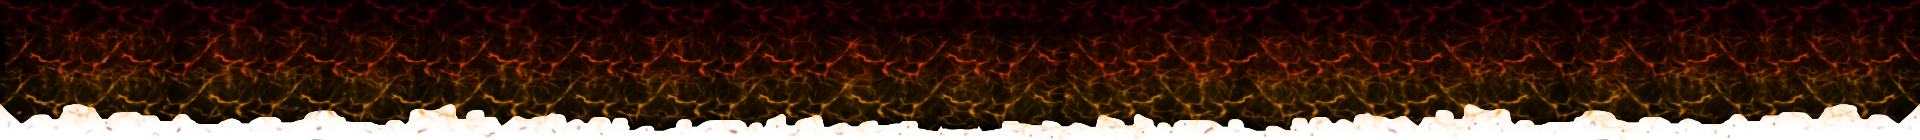
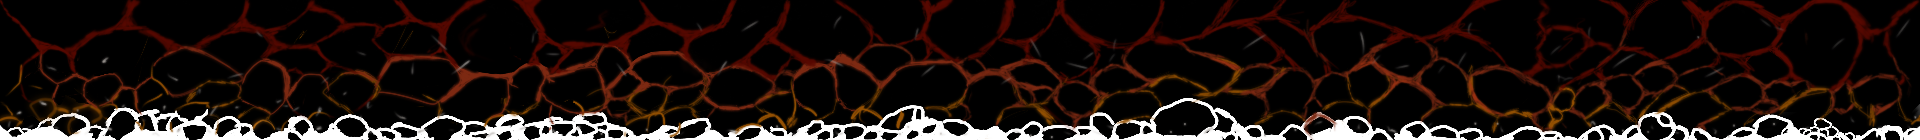
Refresh new styles and add new toppers

diff --git a/motionvation/templates/base.html b/motionvation/templates/base.html
@@ -8,9 +8,9 @@
     <link rel="stylesheet" href="https://stackpath.bootstrapcdn.com/bootstrap/4.4.1/css/bootstrap.min.css">
     <link rel="stylesheet" href="{{ url_for('static', filename='css/style124.css') }}">
     {% if current_user.is_authenticated and current_user.number_of_style == 1 %}
-    <link rel="stylesheet" href="{{ url_for('static', filename='css/red_beast_design2.css') }}">
+    <link rel="stylesheet" href="{{ url_for('static', filename='css/red_beast_design.css') }}">
     {% else %}
-    <link rel="stylesheet" href="{{ url_for('static', filename='css/classique_design2.css') }}">
+    <link rel="stylesheet" href="{{ url_for('static', filename='css/classique_design.css') }}">
     {% endif %}
     <script src="https://kit.fontawesome.com/a4abeefcac.js" crossorigin="anonymous"></script>
     <script src="https://code.jquery.com/jquery-3.2.1.slim.min.js" integrity="sha384-KJ3o2DKtIkvYIK3UENzmM7KCkRr/rE9/Qpg6aAZGJwFDMVNA/GpGFF93hXpG5KkN" crossorigin="anonymous"></script>
